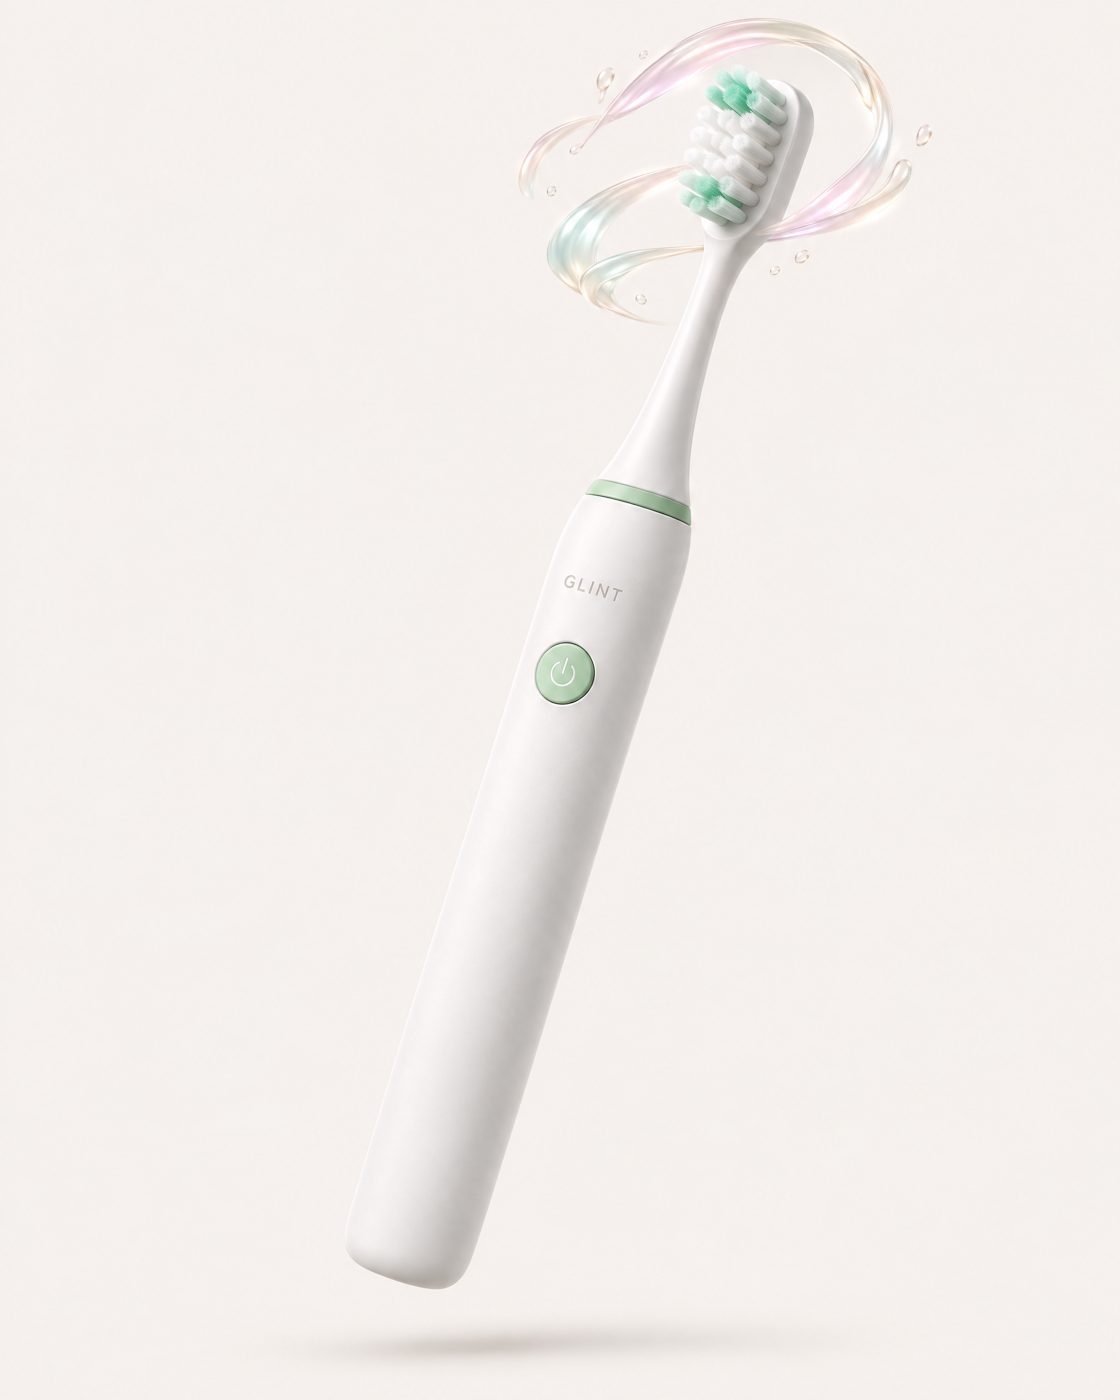
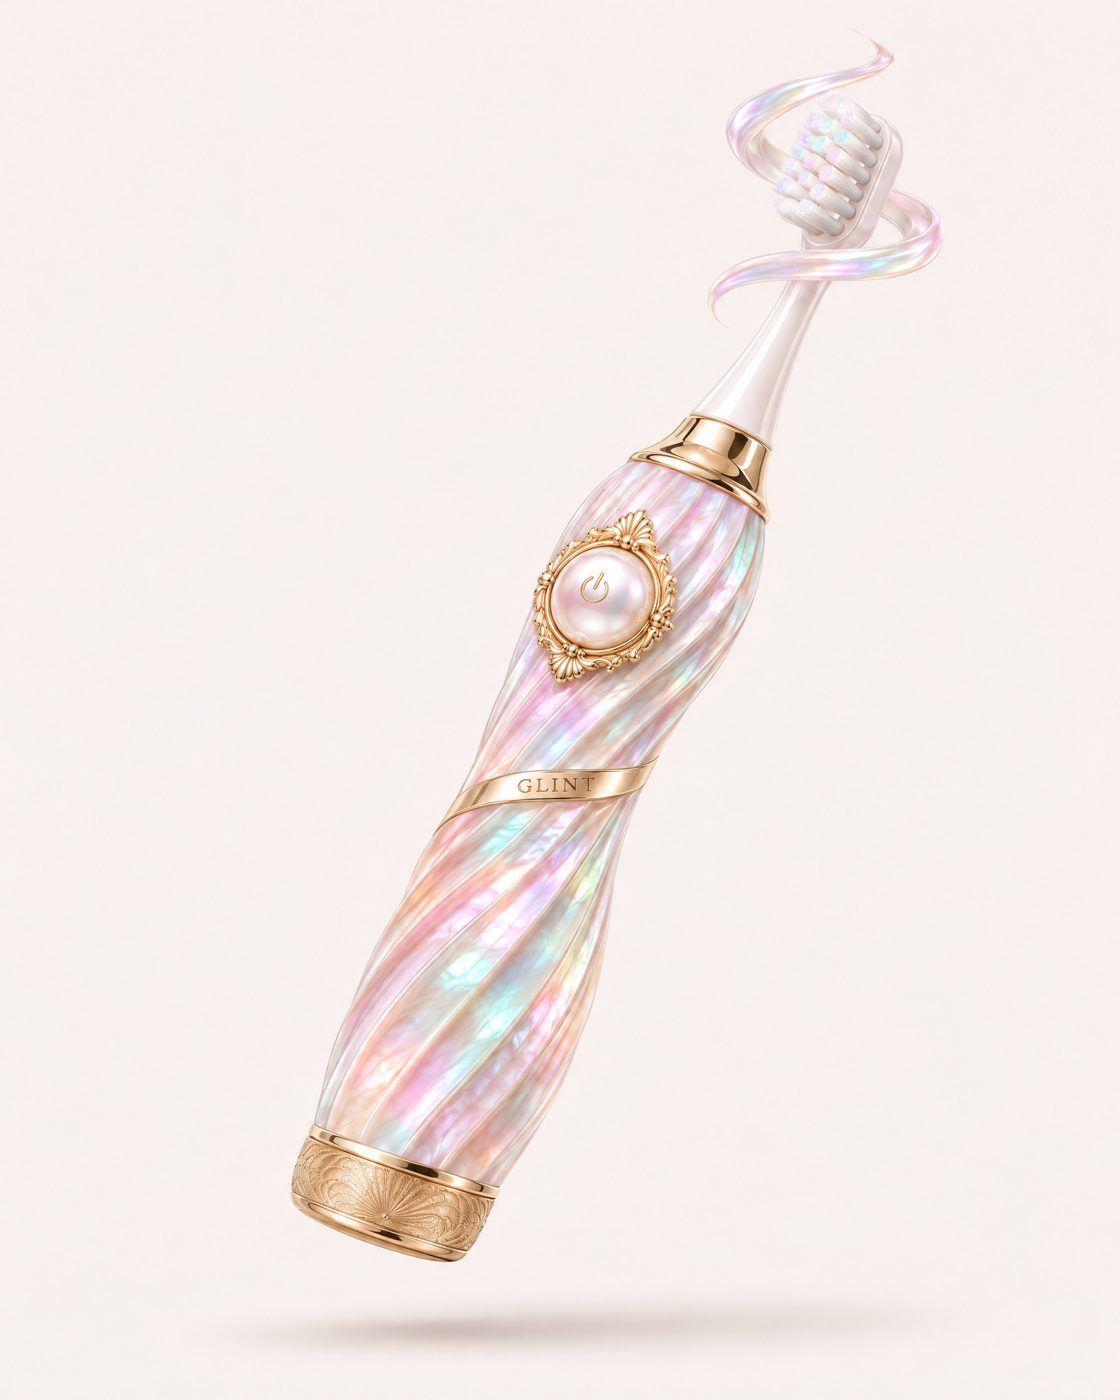
Maximalist Glint design, regenerated images, three-way comparison
- New ornate pearl-and-gold brush design across every image and the cursor
- Images regenerated so each scene is physically sensible
- Comparison table: normal toothbrush vs Glint vs whitening session
- Removes the final CTA section

Claude-Session: https://claude.ai/code/session_01LpMoU7axzAW7tjnf5Kqx1y

Changed region(s): [[0.25, 0.0, 0.8438, 0.9829], [0.4688, 0.0921, 0.5, 0.1229]]

diff --git a/index.html b/index.html
@@ -134,13 +134,15 @@
   .ba-quote blockquote { margin: 0; font-size: 20px; color: var(--ink); max-width: 46ch; }
 
   /* 6. cost table */
-  .compare { border-radius: 28px; background: #fff; border: 1px solid var(--line); overflow: hidden; }
+  .compare { border-radius: 28px; background: #fff; border: 1px solid var(--line); overflow-x: auto; }
+  .compare table { min-width: 640px; }
   .compare table { width: 100%; border-collapse: collapse; }
   .compare th, .compare td { padding: 20px 24px; text-align: left; border-bottom: 1px solid var(--line); vertical-align: middle; }
   .compare thead th { font: 700 18px var(--display); letter-spacing: -0.01em; padding-top: 28px; border-bottom-color: rgba(28,30,33,.16); }
-  .compare th[scope=row] { font-weight: 500; width: 40%; }
-  .compare .g { background: var(--pearl-soft); text-align: center; width: 30%; font-weight: 600; }
-  .compare .p { text-align: center; color: var(--muted); width: 30%; }
+  .compare th[scope=row] { font-weight: 500; width: 31%; }
+  .compare .g { background: var(--pearl-soft); text-align: center; width: 23%; font-weight: 600; }
+  .compare .n { text-align: center; color: var(--muted); width: 23%; }
+  .compare .p { text-align: center; color: var(--muted); width: 23%; }
   .compare td.p { display: table-cell; }
   .cell { display: inline-flex; align-items: center; gap: 8px; }
   .ok, .no { display: inline-grid; place-items: center; width: 34px; height: 34px; border-radius: 50%; }
@@ -174,12 +176,6 @@
   .faq details[open] summary i::after { transform: rotate(0); }
   .faq details p { padding: 0 4px 24px; color: var(--muted); max-width: 64ch; }
 
-  /* 9. final */
-  .final-inner { overflow: hidden; border-radius: 36px; text-align: center; padding: 96px 24px 0; background: var(--pearl); }
-  .final-inner .copy { display: grid; gap: 22px; justify-items: center; max-width: 780px; margin: 0 auto 24px; }
-  .final-inner .copy .sub { margin-inline: auto; }
-  .final-inner > img { width: calc(100% + 48px); max-width: none; margin: 0 -24px; }
-
   footer { padding: 56px 0 64px; color: var(--muted); font-size: 14px; }
   footer .wrap { display: flex; justify-content: space-between; gap: 24px; flex-wrap: wrap; }
   footer details summary { cursor: pointer; text-decoration: underline; text-underline-offset: 3px; }
@@ -208,7 +204,6 @@
     .ba { aspect-ratio: 4 / 5; }
     .thirty { min-height: 0; padding-bottom: 60px; }
     .thirty img { right: 0; bottom: 0; }
-    .final-inner { padding-top: 64px; }
   }
   @media (max-width: 600px) {
     .btn { width: 100%; }
@@ -305,7 +300,7 @@
         <p data-brush>Glint does everything you’d expect from a great toothbrush. It cleans your teeth, tackles plaque, and keeps your mouth fresh. We just made whitening its specialty.</p>
       </div>
       <div class="f-art">
-        <img src="img/brushing.jpg" alt="A woman smiling as she brushes her teeth with Glint" width="1400" height="1045" loading="lazy">
+        <img src="img/brushing.jpg" alt="A woman brushing her teeth with Glint, holding its pearl handle" width="1400" height="1045" loading="lazy">
         <div class="chips">
           <span class="chip"><svg viewBox="0 0 24 24" fill="none" stroke="currentColor" stroke-width="2" stroke-linecap="round" stroke-linejoin="round" aria-hidden="true"><path d="M12 3c3 4 6 7 6 11a6 6 0 0 1-12 0c0-4 3-7 6-11z"/></svg>Cleans</span>
           <span class="chip"><svg viewBox="0 0 24 24" fill="none" stroke="currentColor" stroke-width="2" stroke-linecap="round" stroke-linejoin="round" aria-hidden="true"><path d="M4 12h4l2-5 4 10 2-5h4"/></svg>Tackles plaque</span>
@@ -322,7 +317,7 @@
         <span class="battery"><svg viewBox="0 0 44 22" fill="none" aria-hidden="true"><rect x="1" y="1" width="38" height="20" rx="5" stroke="currentColor" stroke-width="1.6"/><rect x="40" y="7" width="3" height="8" rx="1.5" fill="currentColor"/><rect x="4" y="4" width="31" height="14" rx="3" fill="#3f8f70"/></svg>Nearly full, still</span>
       </div>
       <div class="f-art">
-        <img src="img/counter.jpg" alt="Glint standing alone on a pale stone bathroom counter with no charging cable" width="1120" height="1400" loading="lazy">
+        <img src="img/counter.jpg" alt="Glint standing on its gold base on a marble bathroom counter, no charging cable" width="1120" height="1400" loading="lazy">
         <div class="days" aria-hidden="true">100<small>DAYS</small></div>
       </div>
     </div>
@@ -351,7 +346,7 @@
         <div class="seal"><b aria-hidden="true">30</b>
           <svg viewBox="0 0 200 200" aria-hidden="true"><defs><path id="ring" d="M100 100 m-86 0 a86 86 0 1 1 172 0 a86 86 0 1 1 -172 0"/></defs><text font-family="Inter, sans-serif" font-size="11.5" font-weight="600" letter-spacing="3.4" fill="#5f6369"><textPath href="#ring">30-DAY MONEY-BACK GUARANTEE · LOVE IT OR RETURN IT · </textPath></text></svg>
         </div>
-        <img src="img/guarantee.jpg" alt="Glint floating above its pearl-white box" width="1400" height="1045" loading="lazy">
+        <img src="img/guarantee.jpg" alt="Glint resting in its open pearl-white presentation box" width="1400" height="1045" loading="lazy">
       </div>
     </div>
   </div>
@@ -385,19 +380,20 @@
     </div>
     <div class="compare">
       <table>
-        <thead><tr><th scope="col"><span class="sr-only">Feature</span></th><th scope="col" class="g">Glint</th><th scope="col" class="p">Professional whitening</th></tr></thead>
+        <thead><tr><th scope="col"><span class="sr-only">Feature</span></th><th scope="col" class="n">Normal toothbrush</th><th scope="col" class="g">Glint</th><th scope="col" class="p">Whitening session</th></tr></thead>
         <tbody>
-          <tr><th scope="row">At-home whitening routine</th><td class="g"><span class="ok" role="img" aria-label="Yes"><svg viewBox="0 0 24 24" fill="none" stroke="currentColor" stroke-width="3" stroke-linecap="round" stroke-linejoin="round"><path d="M5 12l5 5 9-10"/></svg></span></td><td class="p"><span class="cell">Usually <span class="no" role="img" aria-label="no"><svg viewBox="0 0 24 24" fill="none" stroke="currentColor" stroke-width="3" stroke-linecap="round"><path d="M6 6l12 12M18 6L6 18"/></svg></span></span></td></tr>
-          <tr><th scope="row">Part of daily brushing</th><td class="g"><span class="ok" role="img" aria-label="Yes"><svg viewBox="0 0 24 24" fill="none" stroke="currentColor" stroke-width="3" stroke-linecap="round" stroke-linejoin="round"><path d="M5 12l5 5 9-10"/></svg></span></td><td class="p"><span class="no" role="img" aria-label="No"><svg viewBox="0 0 24 24" fill="none" stroke="currentColor" stroke-width="3" stroke-linecap="round"><path d="M6 6l12 12M18 6L6 18"/></svg></span></td></tr>
-          <tr><th scope="row">Separate whitening appointment</th><td class="g">Not needed</td><td class="p">Required for in-office treatment</td></tr>
-          <tr><th scope="row">Cost</th><td class="g">$49</td><td class="p">Often several hundred dollars per in-office session</td></tr>
-          <tr><th scope="row">Up to 100 days of battery</th><td class="g"><span class="ok" role="img" aria-label="Yes"><svg viewBox="0 0 24 24" fill="none" stroke="currentColor" stroke-width="3" stroke-linecap="round" stroke-linejoin="round"><path d="M5 12l5 5 9-10"/></svg></span></td><td class="p">N/A</td></tr>
-          <tr><th scope="row">Professional dental treatment</th><td class="g"><span class="no" role="img" aria-label="No"><svg viewBox="0 0 24 24" fill="none" stroke="currentColor" stroke-width="3" stroke-linecap="round"><path d="M6 6l12 12M18 6L6 18"/></svg></span></td><td class="p"><span class="ok" role="img" aria-label="Yes"><svg viewBox="0 0 24 24" fill="none" stroke="currentColor" stroke-width="3" stroke-linecap="round" stroke-linejoin="round"><path d="M5 12l5 5 9-10"/></svg></span></td></tr>
-          <tr class="checkups"><th scope="row"><span><svg viewBox="0 0 24 24" fill="currentColor" aria-hidden="true"><path d="M12 21s-7.5-4.6-9.5-9.3C1.1 8.3 3.3 4.5 7 4.5c2.1 0 3.6 1.1 5 3 1.4-1.9 2.9-3 5-3 3.7 0 5.9 3.8 4.5 7.2C19.5 16.4 12 21 12 21z"/></svg>Regular dental checkups</span></th><td class="g">YES. PLEASE GO.</td><td class="p">YES. PLEASE GO.</td></tr>
+          <tr><th scope="row">At-home whitening routine</th><td class="n"><span class="no" role="img" aria-label="No"><svg viewBox="0 0 24 24" fill="none" stroke="currentColor" stroke-width="3" stroke-linecap="round"><path d="M6 6l12 12M18 6L6 18"/></svg></span></td><td class="g"><span class="ok" role="img" aria-label="Yes"><svg viewBox="0 0 24 24" fill="none" stroke="currentColor" stroke-width="3" stroke-linecap="round" stroke-linejoin="round"><path d="M5 12l5 5 9-10"/></svg></span></td><td class="p"><span class="cell">Usually <span class="no" role="img" aria-label="No"><svg viewBox="0 0 24 24" fill="none" stroke="currentColor" stroke-width="3" stroke-linecap="round"><path d="M6 6l12 12M18 6L6 18"/></svg></span></span></td></tr>
+          <tr><th scope="row">Part of daily brushing</th><td class="n"><span class="ok" role="img" aria-label="Yes"><svg viewBox="0 0 24 24" fill="none" stroke="currentColor" stroke-width="3" stroke-linecap="round" stroke-linejoin="round"><path d="M5 12l5 5 9-10"/></svg></span></td><td class="g"><span class="ok" role="img" aria-label="Yes"><svg viewBox="0 0 24 24" fill="none" stroke="currentColor" stroke-width="3" stroke-linecap="round" stroke-linejoin="round"><path d="M5 12l5 5 9-10"/></svg></span></td><td class="p"><span class="no" role="img" aria-label="No"><svg viewBox="0 0 24 24" fill="none" stroke="currentColor" stroke-width="3" stroke-linecap="round"><path d="M6 6l12 12M18 6L6 18"/></svg></span></td></tr>
+          <tr><th scope="row">Cleans teeth and tackles plaque</th><td class="n"><span class="ok" role="img" aria-label="Yes"><svg viewBox="0 0 24 24" fill="none" stroke="currentColor" stroke-width="3" stroke-linecap="round" stroke-linejoin="round"><path d="M5 12l5 5 9-10"/></svg></span></td><td class="g"><span class="ok" role="img" aria-label="Yes"><svg viewBox="0 0 24 24" fill="none" stroke="currentColor" stroke-width="3" stroke-linecap="round" stroke-linejoin="round"><path d="M5 12l5 5 9-10"/></svg></span></td><td class="p">Not its job</td></tr>
+          <tr><th scope="row">Separate whitening appointment</th><td class="n">Not needed</td><td class="g">Not needed</td><td class="p">Required for in-office treatment</td></tr>
+          <tr><th scope="row">Cost</th><td class="n">From a few dollars</td><td class="g">$49</td><td class="p">Often several hundred dollars per in-office session</td></tr>
+          <tr><th scope="row">Up to 100 days of battery</th><td class="n">Varies</td><td class="g"><span class="ok" role="img" aria-label="Yes"><svg viewBox="0 0 24 24" fill="none" stroke="currentColor" stroke-width="3" stroke-linecap="round" stroke-linejoin="round"><path d="M5 12l5 5 9-10"/></svg></span></td><td class="p">N/A</td></tr>
+          <tr><th scope="row">Professional dental treatment</th><td class="n"><span class="no" role="img" aria-label="No"><svg viewBox="0 0 24 24" fill="none" stroke="currentColor" stroke-width="3" stroke-linecap="round"><path d="M6 6l12 12M18 6L6 18"/></svg></span></td><td class="g"><span class="no" role="img" aria-label="No"><svg viewBox="0 0 24 24" fill="none" stroke="currentColor" stroke-width="3" stroke-linecap="round"><path d="M6 6l12 12M18 6L6 18"/></svg></span></td><td class="p"><span class="ok" role="img" aria-label="Yes"><svg viewBox="0 0 24 24" fill="none" stroke="currentColor" stroke-width="3" stroke-linecap="round" stroke-linejoin="round"><path d="M5 12l5 5 9-10"/></svg></span></td></tr>
+          <tr class="checkups"><th scope="row"><span><svg viewBox="0 0 24 24" fill="currentColor" aria-hidden="true"><path d="M12 21s-7.5-4.6-9.5-9.3C1.1 8.3 3.3 4.5 7 4.5c2.1 0 3.6 1.1 5 3 1.4-1.9 2.9-3 5-3 3.7 0 5.9 3.8 4.5 7.2C19.5 16.4 12 21 12 21z"/></svg>Regular dental checkups</span></th><td class="n">YES. PLEASE GO.</td><td class="g">YES. PLEASE GO.</td><td class="p">YES. PLEASE GO.</td></tr>
         </tbody>
       </table>
     </div>
-    <div class="table-cta"><a href="#final" class="btn">I want whiter teeth <svg viewBox="0 0 24 24" fill="none" stroke="currentColor" stroke-width="2" stroke-linecap="round" stroke-linejoin="round" aria-hidden="true"><path d="M5 12h14M13 6l6 6-6 6"/></svg></a></div>
+    <div class="table-cta"><a href="#faq" class="btn">I want whiter teeth <svg viewBox="0 0 24 24" fill="none" stroke="currentColor" stroke-width="2" stroke-linecap="round" stroke-linejoin="round" aria-hidden="true"><path d="M5 12h14M13 6l6 6-6 6"/></svg></a></div>
   </div>
 </section>
 
@@ -435,20 +431,6 @@
   </div>
 </section>
 
-<!-- SECTION 9 — FINAL CTA -->
-<section class="block final" id="final" aria-labelledby="final-h">
-  <div class="wrap">
-    <div class="final-inner">
-      <div class="copy">
-        <h2 id="final-h" data-brush>You’ve been brushing your whole life. Time to get more out of it.</h2>
-        <p class="sub" data-brush>Meet Glint. The toothbrush designed to make whitening part of your everyday routine.</p>
-        <a href="#cost" class="btn">I want whiter teeth <svg viewBox="0 0 24 24" fill="none" stroke="currentColor" stroke-width="2" stroke-linecap="round" stroke-linejoin="round" aria-hidden="true"><path d="M5 12h14M13 6l6 6-6 6"/></svg></a>
-        <span class="trust"><svg viewBox="0 0 32 32" fill="none" aria-hidden="true"><circle cx="16" cy="16" r="14.5" stroke="#c9c3ba" stroke-width="1.2"/><path d="M16 6.5l8 3v5.5c0 5-3.4 8.4-8 9.8-4.6-1.4-8-4.8-8-9.8V9.5z" fill="#e3f3f0" stroke="#3f8f70" stroke-width="1.4"/><path d="M12.5 15.8l2.4 2.4 4.6-4.6" stroke="#3f8f70" stroke-width="1.8" stroke-linecap="round" stroke-linejoin="round"/></svg><span data-brush>30-day money-back guarantee.</span></span>
-      </div>
-      <img src="img/final.jpg" alt="Glint floating at a slight angle on an iridescent pearl background" width="1400" height="600" loading="lazy">
-    </div>
-  </div>
-</section>
 
 <footer>
   <div class="wrap">
@@ -458,7 +440,7 @@
 </footer>
 
 <canvas id="fx" aria-hidden="true"></canvas>
-<div id="brush" aria-hidden="true"><img src="img/brush-cursor.png" alt="" width="49" height="480"></div>
+<div id="brush" aria-hidden="true"><img src="img/brush-cursor.png" alt="" width="92" height="480"></div>
 
 <script>
 /* before / after slider */
@@ -519,7 +501,7 @@ document.querySelectorAll('[data-ba]').forEach(box => {
   function measure() { for (const c of chars) { const r = c.el.getBoundingClientRect(); c.x = r.left + r.width / 2 + scrollX; c.y = r.top + r.height / 2 + scrollY; } }
 
   const brush = document.getElementById('brush'), img = brush.querySelector('img');
-  const BH = 118, NAT = { w: 49, h: 480 }, S = BH / NAT.h, HOT = { x: 0.566 * NAT.w * S, y: 0.069 * NAT.h * S };
+  const BH = 112, NAT = { w: 92, h: 480 }, S = BH / NAT.h, HOT = { x: 0.763 * NAT.w * S, y: 0.055 * NAT.h * S };
   img.style.width = NAT.w * S + 'px'; img.style.height = BH + 'px'; img.style.left = -HOT.x + 'px'; img.style.top = -HOT.y + 'px'; img.style.transformOrigin = `${HOT.x}px ${HOT.y}px`;
 
   const fx = document.getElementById('fx'), ctx = fx.getContext('2d');

diff --git a/README.md b/README.md
@@ -2,7 +2,7 @@
 
 Landing page for **Glint**, a fictional whitening sonic toothbrush. The cursor is a toothbrush: run it over the stained copy to scrub it clean, and keep brushing fast to turn it pearly white.
 
-Sections: hero, awards strip, what makes Glint different, five features (Liquid Pearl, cleaning, 100-day battery, refill heads, 30-day guarantee), before/after slider, cost comparison, how it works, FAQ, final CTA.
+Sections: hero, awards strip, what makes Glint different, five features (Liquid Pearl, cleaning, 100-day battery, refill heads, 30-day guarantee), before/after slider, cost comparison, how it works, FAQ.
 
 Placeholders to replace before launch: award logos, before/after customer photos and testimonial, professional whitening price, FAQ answers (verify), and the full return policy.
 
